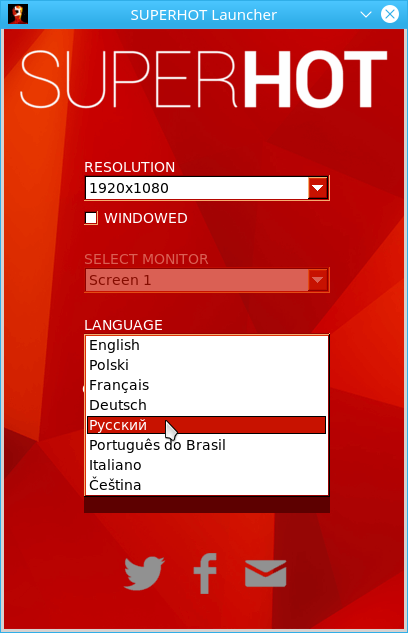
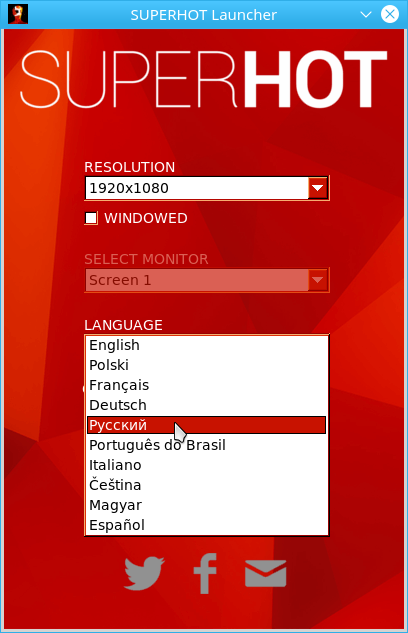
Show Hungarian and Spanish

Changed region(s): [[0.2059, 0.7804, 0.8235, 0.8705], [0.3824, 0.6603, 0.4706, 0.7204]]

diff --git a/launcher.cpp b/launcher.cpp
@@ -176,6 +176,8 @@ static Fl_Menu_Item language_items[] = {
   ITEM(l10n[5][1]),
   ITEM(l10n[6][1]),
   ITEM(l10n[7][1]),
+  ITEM(l10n[8][1]),
+  ITEM(l10n[9][1]),
   ITEM_INIT
 };
 
